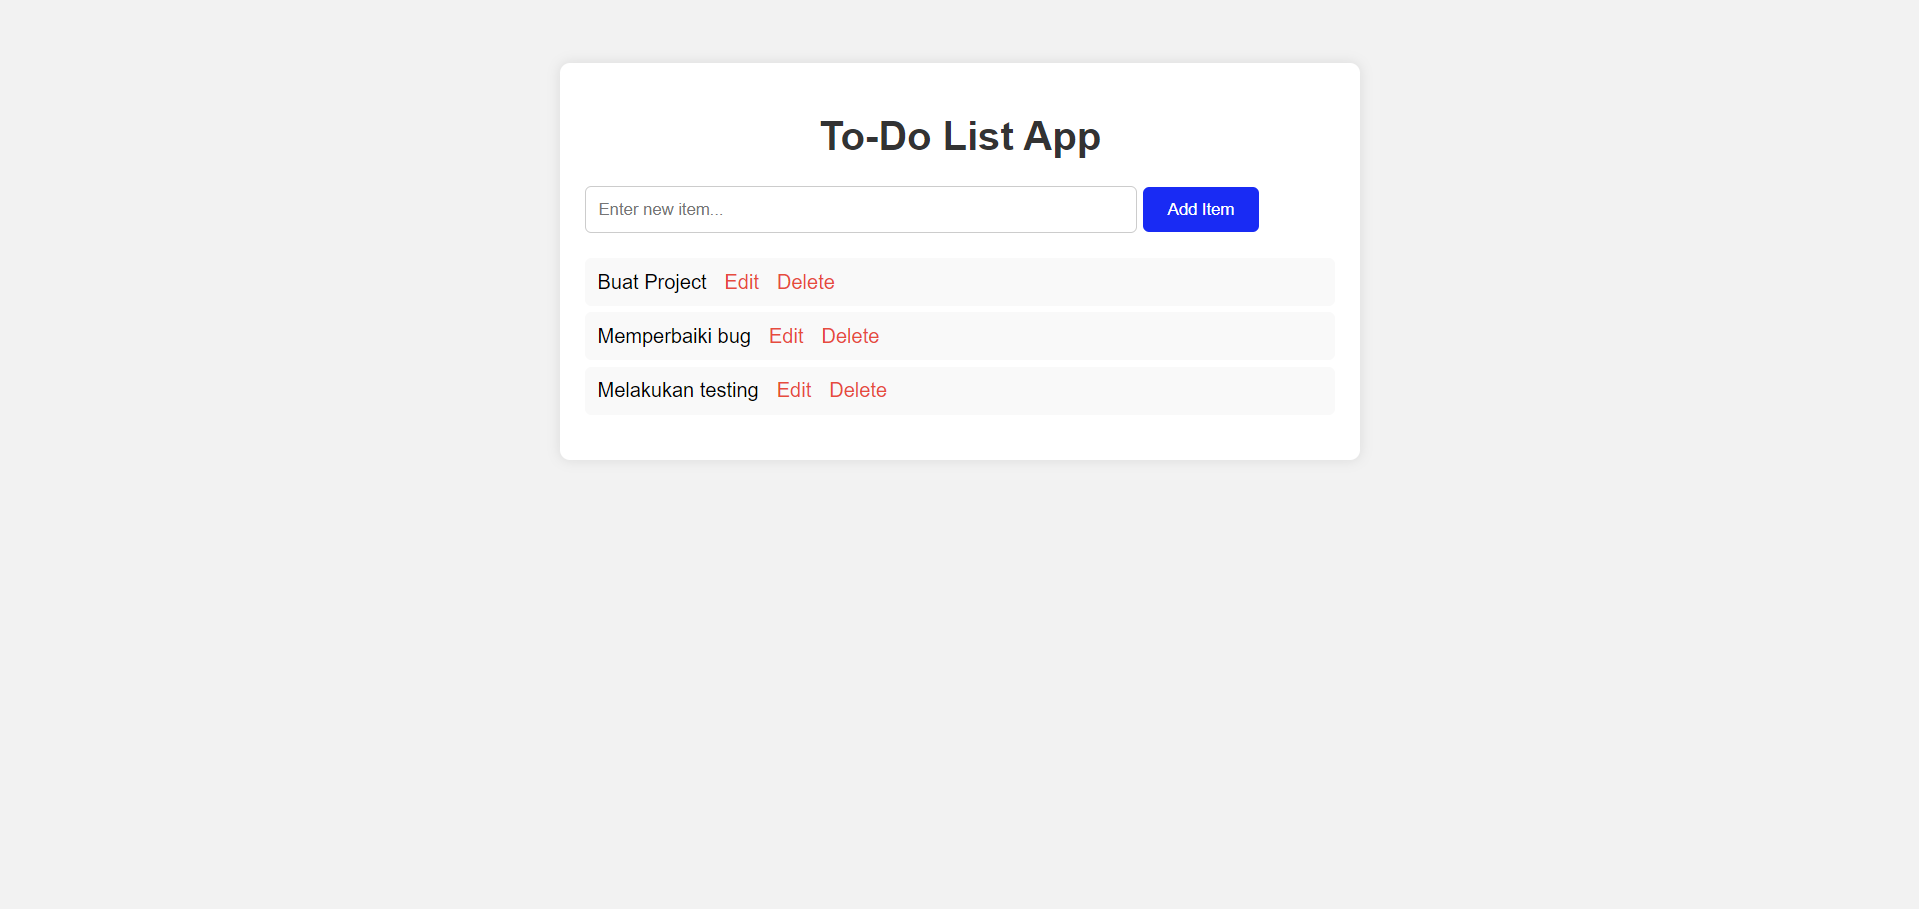
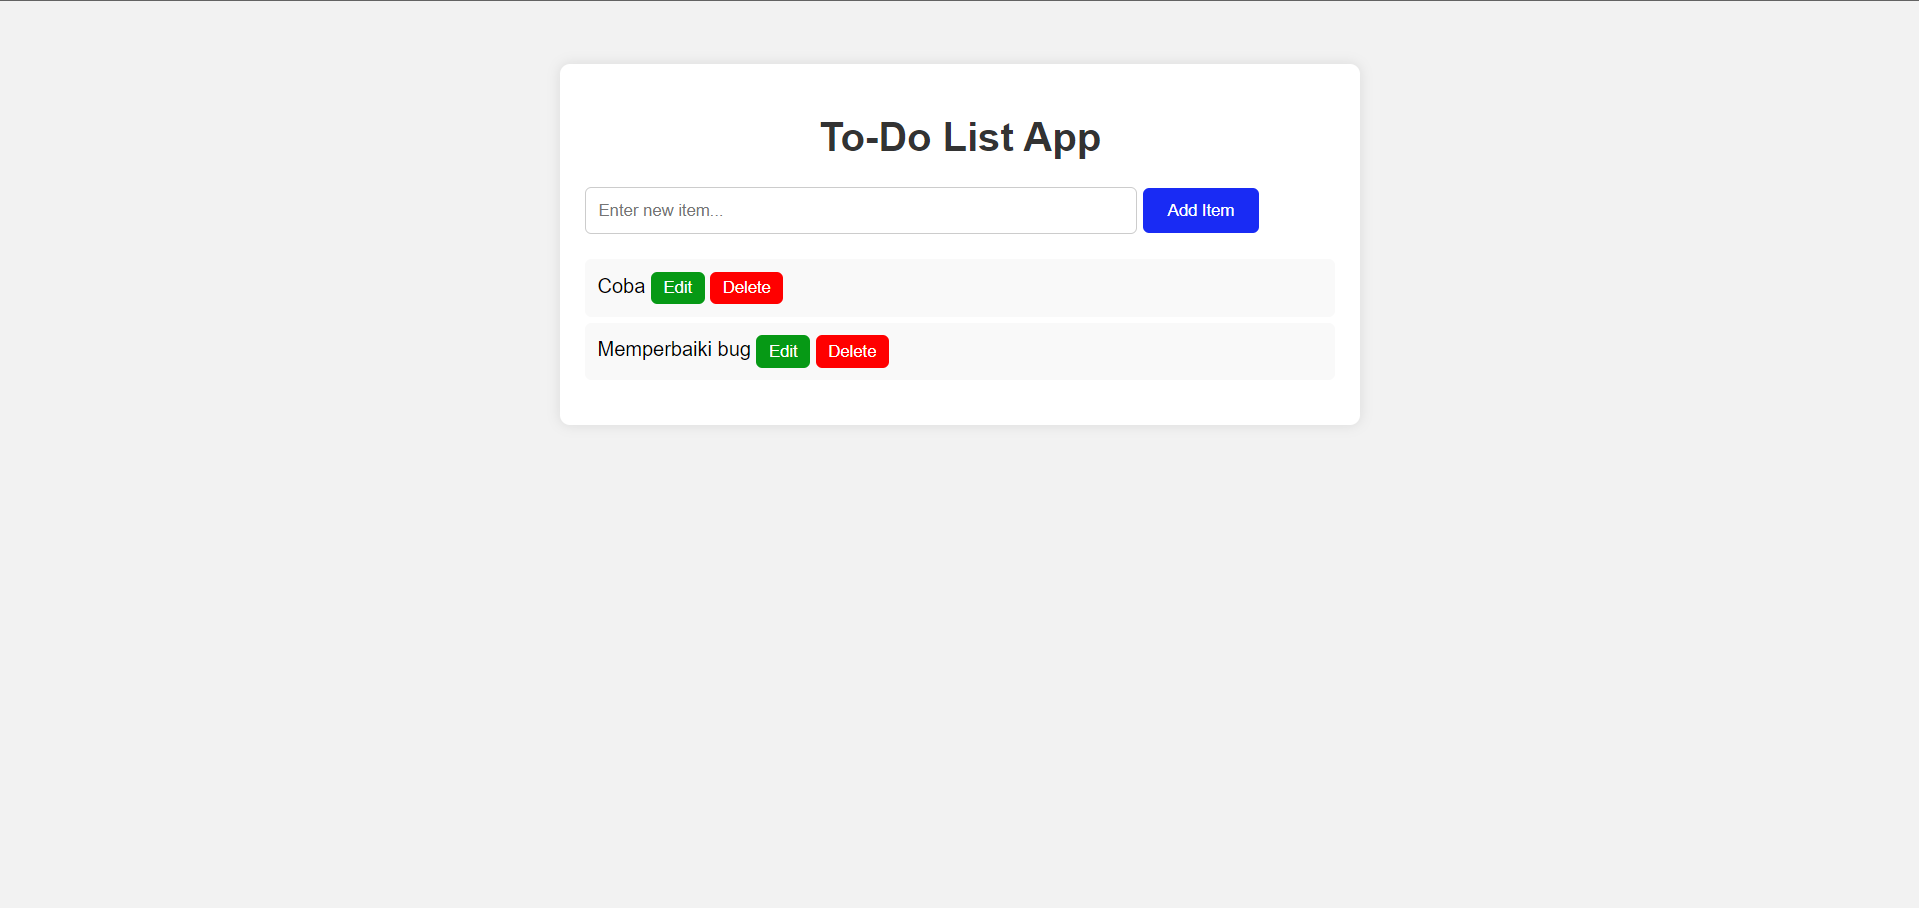
Update

diff --git a/templates/index.html b/templates/index.html
@@ -37,8 +37,12 @@ SOFTWARE. -->
             {% for index, item in todo_list_with_index %}
                 <li>
                     {{ item }} 
-                    <a href="/edit/{{ index }}">Edit</a> 
-                    <a href="/delete/{{ index }}">Delete</a>
+                    <form action="/edit/{{ index }}" method="GET" style="display:inline;">
+                        <button type="submit" class="edit-button">Edit</button>
+                    </form> 
+                    <form action="/delete/{{ index }}" method="GET" style="display:inline;">
+                        <button type="submit" class="delete-button">Delete</button>
+                    </form>
                 </li>
             {% endfor %}
         </ul>                

diff --git a/static/styles.css b/static/styles.css
@@ -76,3 +76,21 @@ a {
     text-decoration: none;
     margin-left: 10px;
 }
+
+.edit-button {
+    background-color: rgb(6, 153, 21);
+    color: white;
+    border: none;
+    border-radius: 5px;
+    padding: 5px 10px;
+    cursor: pointer;
+}
+
+.delete-button {
+    background-color: rgb(255, 0, 0);
+    color: white;
+    border: none;
+    border-radius: 5px;
+    padding: 5px 10px;
+    cursor: pointer;
+}
